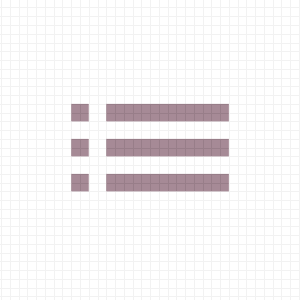
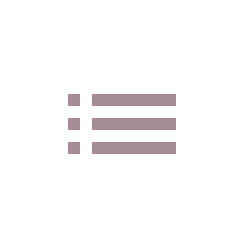
navigatie werkt volledig

Changed region(s): [[0.2333, 0.3208, 0.7875, 0.6417]]

diff --git a/client/src/components/user/NavigatieHome.jsx b/client/src/components/user/NavigatieHome.jsx
@@ -1,12 +1,29 @@
 import React from "react";
+import { Link } from "react-router-dom";
+
+import homeActive from "../../assets/user/home-active.png";
+import vertalen from "../../assets/user/vertalen.png";
+import lines from "../../assets/user/lines.png";
 
 const NavigatieHome = () => {
   return (
     <>
       <ul>
-        <li>Home</li>
-        <li>Vertalen</li>
-        <li>Lines</li>
+        <li>
+          <Link to="/">
+            <img src={homeActive} alt="foto" width="100" height="100" />
+          </Link>
+        </li>
+        <li>
+          <Link to="/vertaal">
+            <img src={vertalen} alt="foto" width="100" height="100" />
+          </Link>
+        </li>
+        <li>
+          <Link to="/lines">
+            <img src={lines} alt="foto" width="100" height="100" />
+          </Link>
+        </li>
       </ul>
     </>
   );

diff --git a/client/src/components/user/NavigatieVertaling.jsx b/client/src/components/user/NavigatieVertaling.jsx
@@ -1,9 +1,30 @@
 import React from "react";
+import { Link } from "react-router-dom";
+
+import home from "../../assets/user/home.png";
+import vertalenActive from "../../assets/user/vertalen-active.png";
+import lines from "../../assets/user/lines.png";
 
 const NavigatieVertaling = () => {
   return (
     <>
-      <p>navigatie</p>
+      <ul>
+        <li>
+          <Link to="/">
+            <img src={home} alt="foto" width="100" height="100" />
+          </Link>
+        </li>
+        <li>
+          <Link to="/vertaal">
+            <img src={vertalenActive} alt="foto" width="100" height="100" />
+          </Link>
+        </li>
+        <li>
+          <Link to="/lines">
+            <img src={lines} alt="foto" width="100" height="100" />
+          </Link>
+        </li>
+      </ul>
     </>
   );
 };

diff --git a/client/src/components/user/NavigatieLines.jsx b/client/src/components/user/NavigatieLines.jsx
@@ -1,9 +1,30 @@
 import React from "react";
+import { Link } from "react-router-dom";
+
+import home from "../../assets/user/home.png";
+import vertalen from "../../assets/user/vertalen.png";
+import linesActive from "../../assets/user/lines-active.png";
 
 const NavigatieLines = () => {
   return (
     <>
-      <p>navigatie </p>
+      <ul>
+        <li>
+          <Link to="/">
+            <img src={home} alt="foto" width="100" height="100" />
+          </Link>
+        </li>
+        <li>
+          <Link to="/vertaal">
+            <img src={vertalen} alt="foto" width="100" height="100" />
+          </Link>
+        </li>
+        <li>
+          <Link to="/lines">
+            <img src={linesActive} alt="foto" width="100" height="100" />
+          </Link>
+        </li>
+      </ul>
     </>
   );
 };
